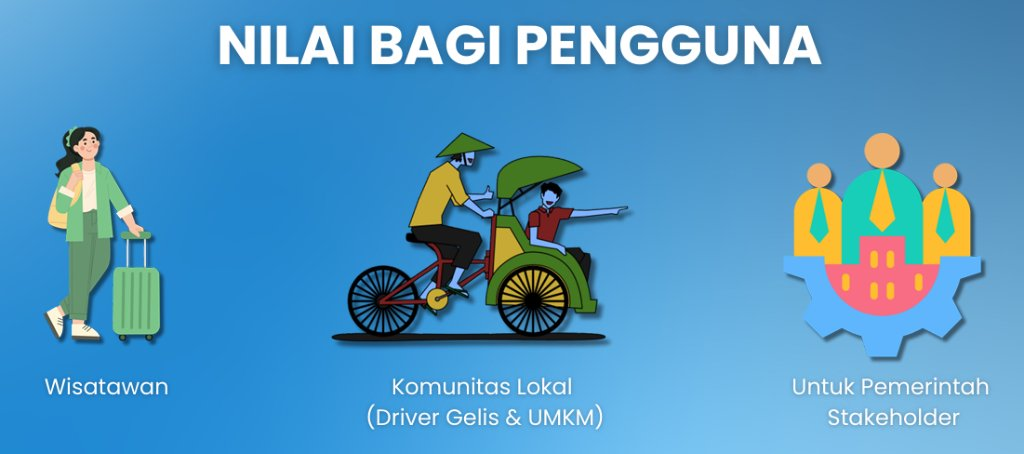
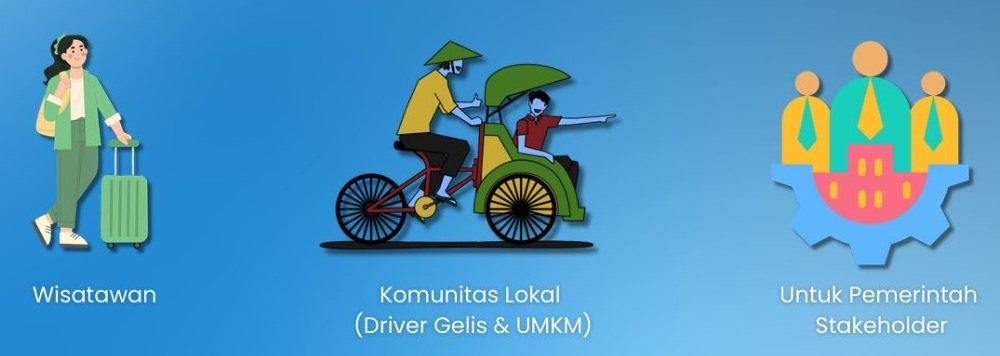
feat: crop PELOR images cleanly and link Google Drive demo

diff --git a/js/data.js b/js/data.js
@@ -367,7 +367,7 @@ window.PORTFOLIO_DATA = {
         en: "PELOR is an Artificial Intelligence (AI) and gamification-based cultural promotion mobile application developed in 2025 to introduce the local heritage of Pulau Penyengat to the younger generation through an interactive and educational approach. The app features an interactive map of historical sites & stays, AI-powered scanning, an Adventure Rank & XP gamification system, and delivers real value for tourists, local communities (Gelis drivers & MSMEs), and government stakeholders."
       },
       tech: ["Android Studio", "Kotlin", "Jetpack Compose", "Artificial Intelligence (AI)", "Gamification"],
-      demoUrl: "#contact",
+      demoUrl: "https://drive.google.com/file/d/1Q1j-iP01h251l8_kVW4BCBH5XvN3Klc_/view?usp=sharing",
       repoUrl: "https://github.com/AdeAl29"
     }
   ],

diff --git a/public/js/data.js b/public/js/data.js
@@ -367,7 +367,7 @@ window.PORTFOLIO_DATA = {
         en: "PELOR is an Artificial Intelligence (AI) and gamification-based cultural promotion mobile application developed in 2025 to introduce the local heritage of Pulau Penyengat to the younger generation through an interactive and educational approach. The app features an interactive map of historical sites & stays, AI-powered scanning, an Adventure Rank & XP gamification system, and delivers real value for tourists, local communities (Gelis drivers & MSMEs), and government stakeholders."
       },
       tech: ["Android Studio", "Kotlin", "Jetpack Compose", "Artificial Intelligence (AI)", "Gamification"],
-      demoUrl: "#contact",
+      demoUrl: "https://drive.google.com/file/d/1Q1j-iP01h251l8_kVW4BCBH5XvN3Klc_/view?usp=sharing",
       repoUrl: "https://github.com/AdeAl29"
     }
   ],

diff --git a/css/style.css b/css/style.css
@@ -1256,17 +1256,19 @@ button {
   position: relative;
   aspect-ratio: 16 / 10;
   overflow: hidden;
+  background: linear-gradient(135deg, #1d4ed8 0%, #2563eb 50%, #38bdf8 100%);
 }
 
 .project-card__img {
   width: 100%;
   height: 100%;
-  object-fit: cover;
+  object-fit: contain;
+  padding: 0.35rem;
   transition: transform 0.5s ease;
 }
 
 .project-card:hover .project-card__img {
-  transform: scale(1.07);
+  transform: scale(1.03);
 }
 
 .project-card__badge {
@@ -1465,12 +1467,14 @@ button {
   position: relative;
   aspect-ratio: 16 / 9;
   overflow: hidden;
+  background: linear-gradient(135deg, #1d4ed8 0%, #2563eb 50%, #38bdf8 100%);
 }
 
 .modal__img {
   width: 100%;
   height: 100%;
-  object-fit: cover;
+  object-fit: contain;
+  padding: 0.5rem;
 }
 
 .modal__badge {

diff --git a/public/css/style.css b/public/css/style.css
@@ -1256,17 +1256,19 @@ button {
   position: relative;
   aspect-ratio: 16 / 10;
   overflow: hidden;
+  background: linear-gradient(135deg, #1d4ed8 0%, #2563eb 50%, #38bdf8 100%);
 }
 
 .project-card__img {
   width: 100%;
   height: 100%;
-  object-fit: cover;
+  object-fit: contain;
+  padding: 0.35rem;
   transition: transform 0.5s ease;
 }
 
 .project-card:hover .project-card__img {
-  transform: scale(1.07);
+  transform: scale(1.03);
 }
 
 .project-card__badge {
@@ -1465,12 +1467,14 @@ button {
   position: relative;
   aspect-ratio: 16 / 9;
   overflow: hidden;
+  background: linear-gradient(135deg, #1d4ed8 0%, #2563eb 50%, #38bdf8 100%);
 }
 
 .modal__img {
   width: 100%;
   height: 100%;
-  object-fit: cover;
+  object-fit: contain;
+  padding: 0.5rem;
 }
 
 .modal__badge {
